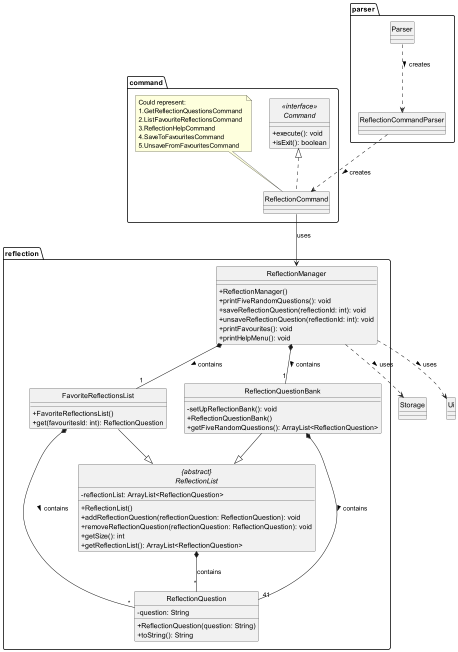
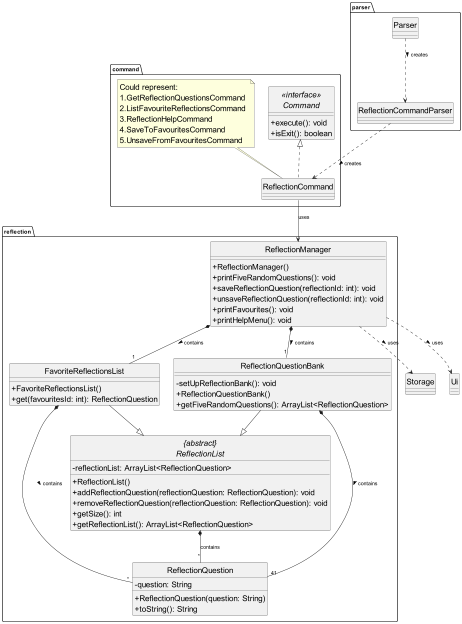
Fix developer guide documentation bug
Let's
* hide footboxes for sequence diagrams
* remove unnecessary html syntax
* increase font size for class diagrams

diff --git a/docs/DeveloperGuide.md b/docs/DeveloperGuide.md
@@ -99,7 +99,7 @@ You are recommended to use Intellij IDEA:
 
 ### UI component
 #### Description
-`Ui` component is in charge of reading in user input and printing output. </br> </br>
+`Ui` component is in charge of reading in user input and printing output.
 
 The `Ui` class is created to standardise the output formatting of messages to be printed across all features. These formatting include the printing of messages and lists, reducing code repetition.
 
